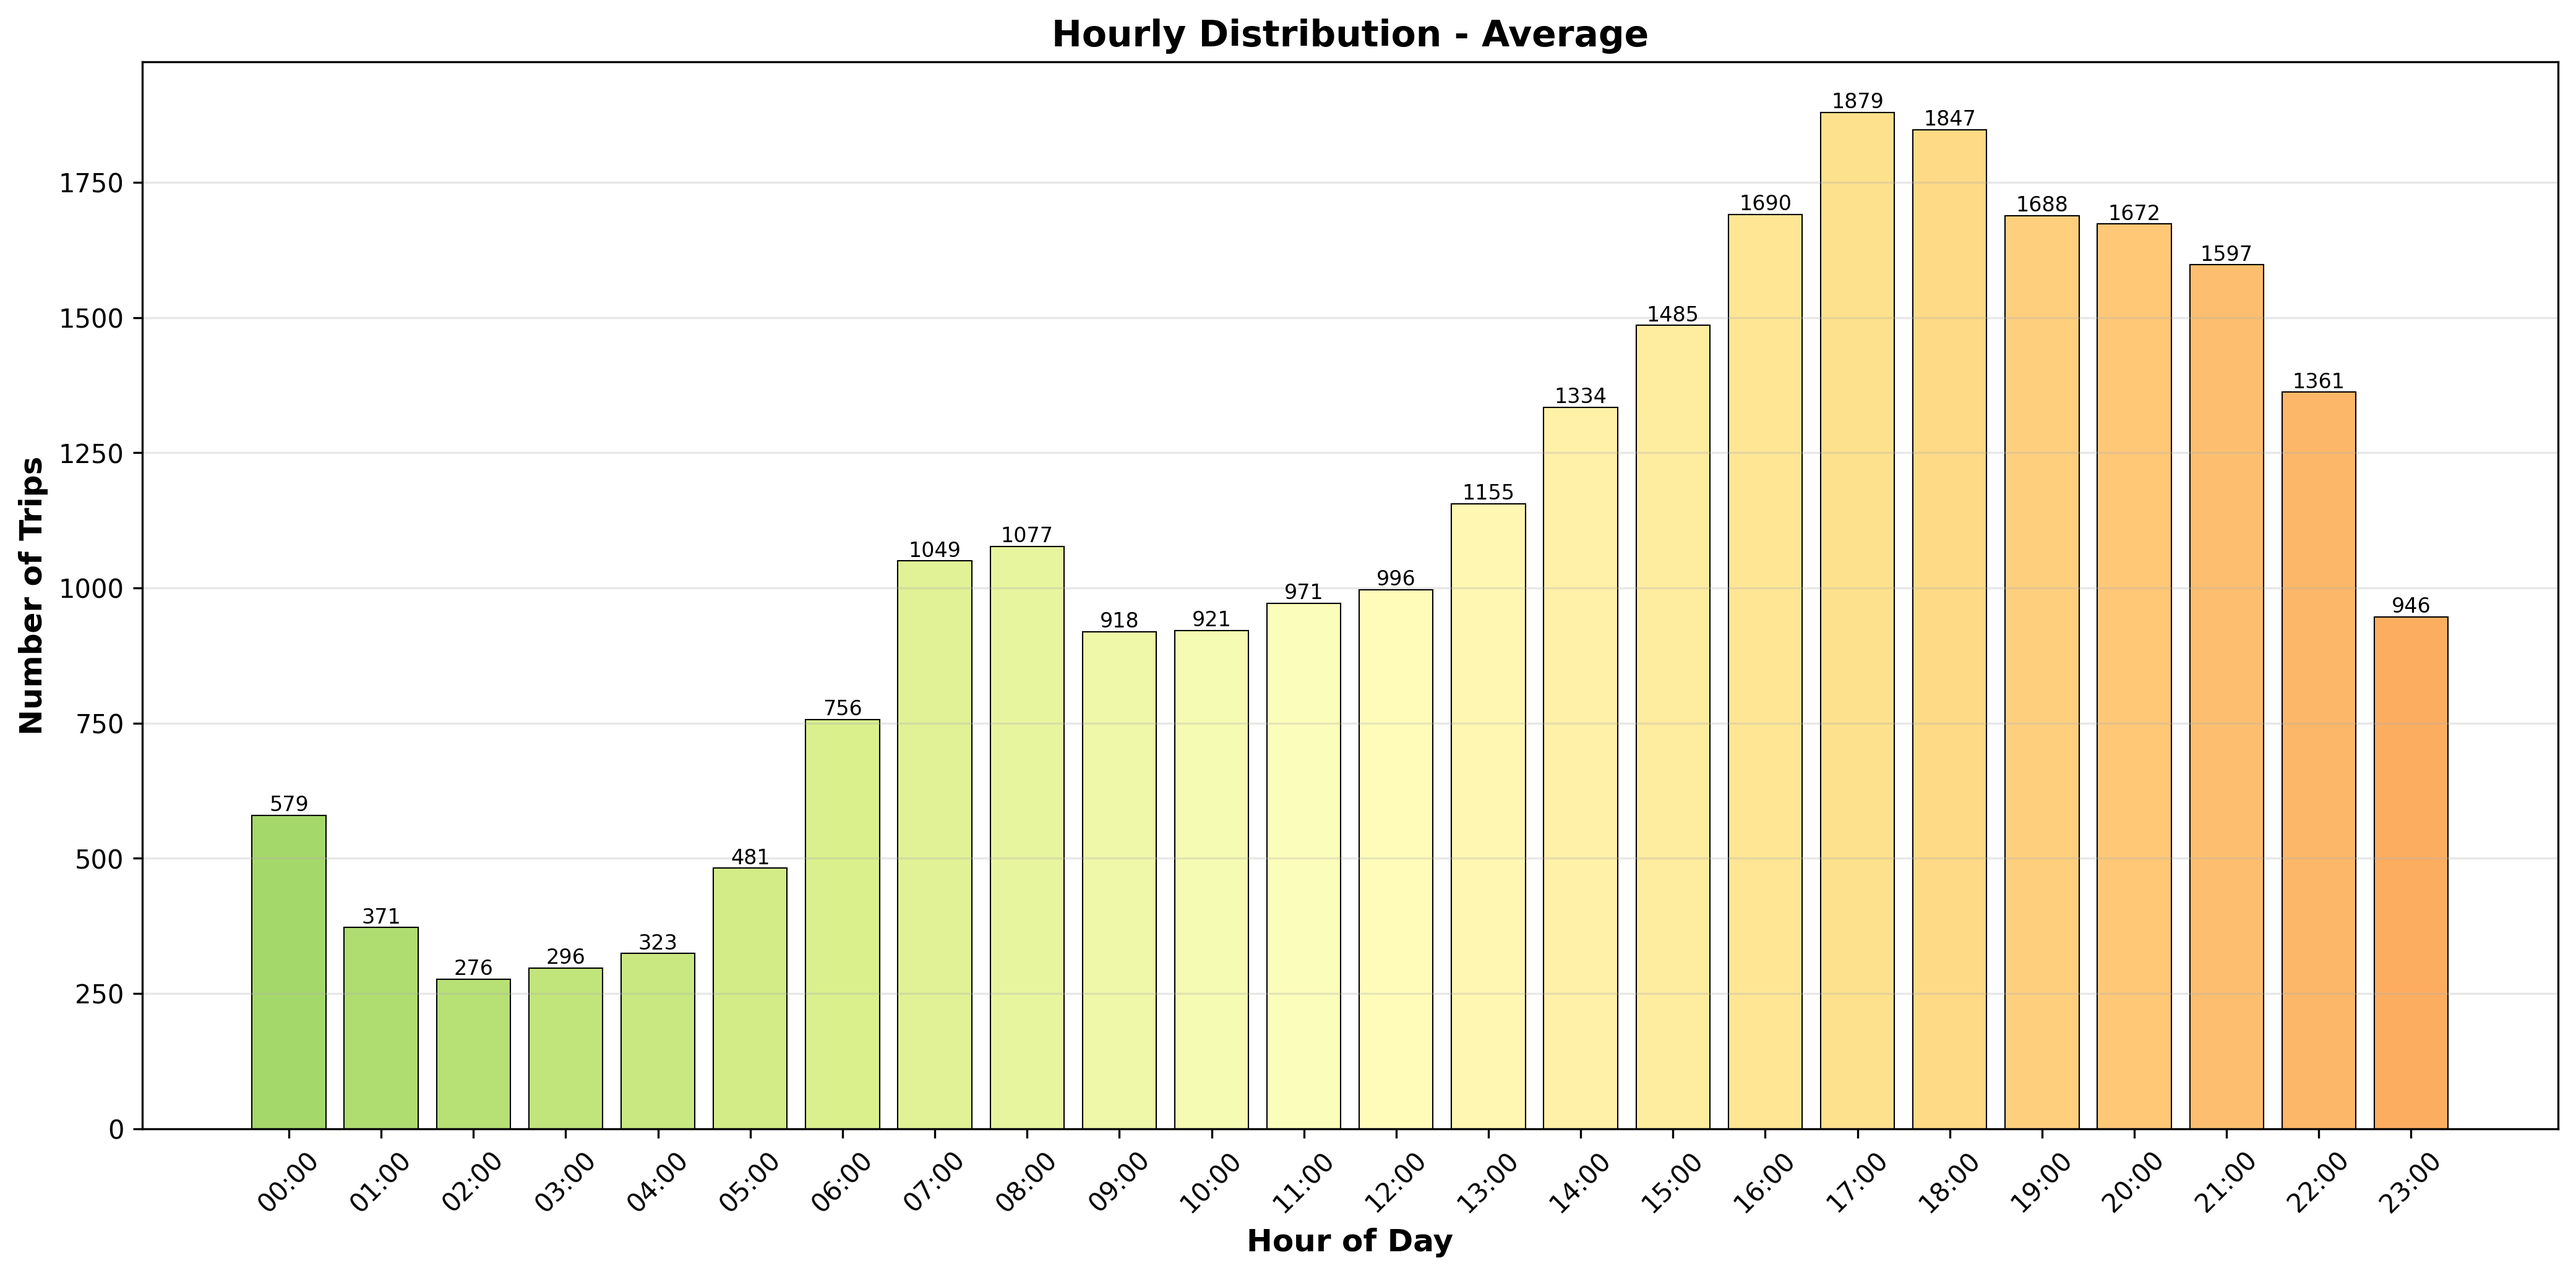
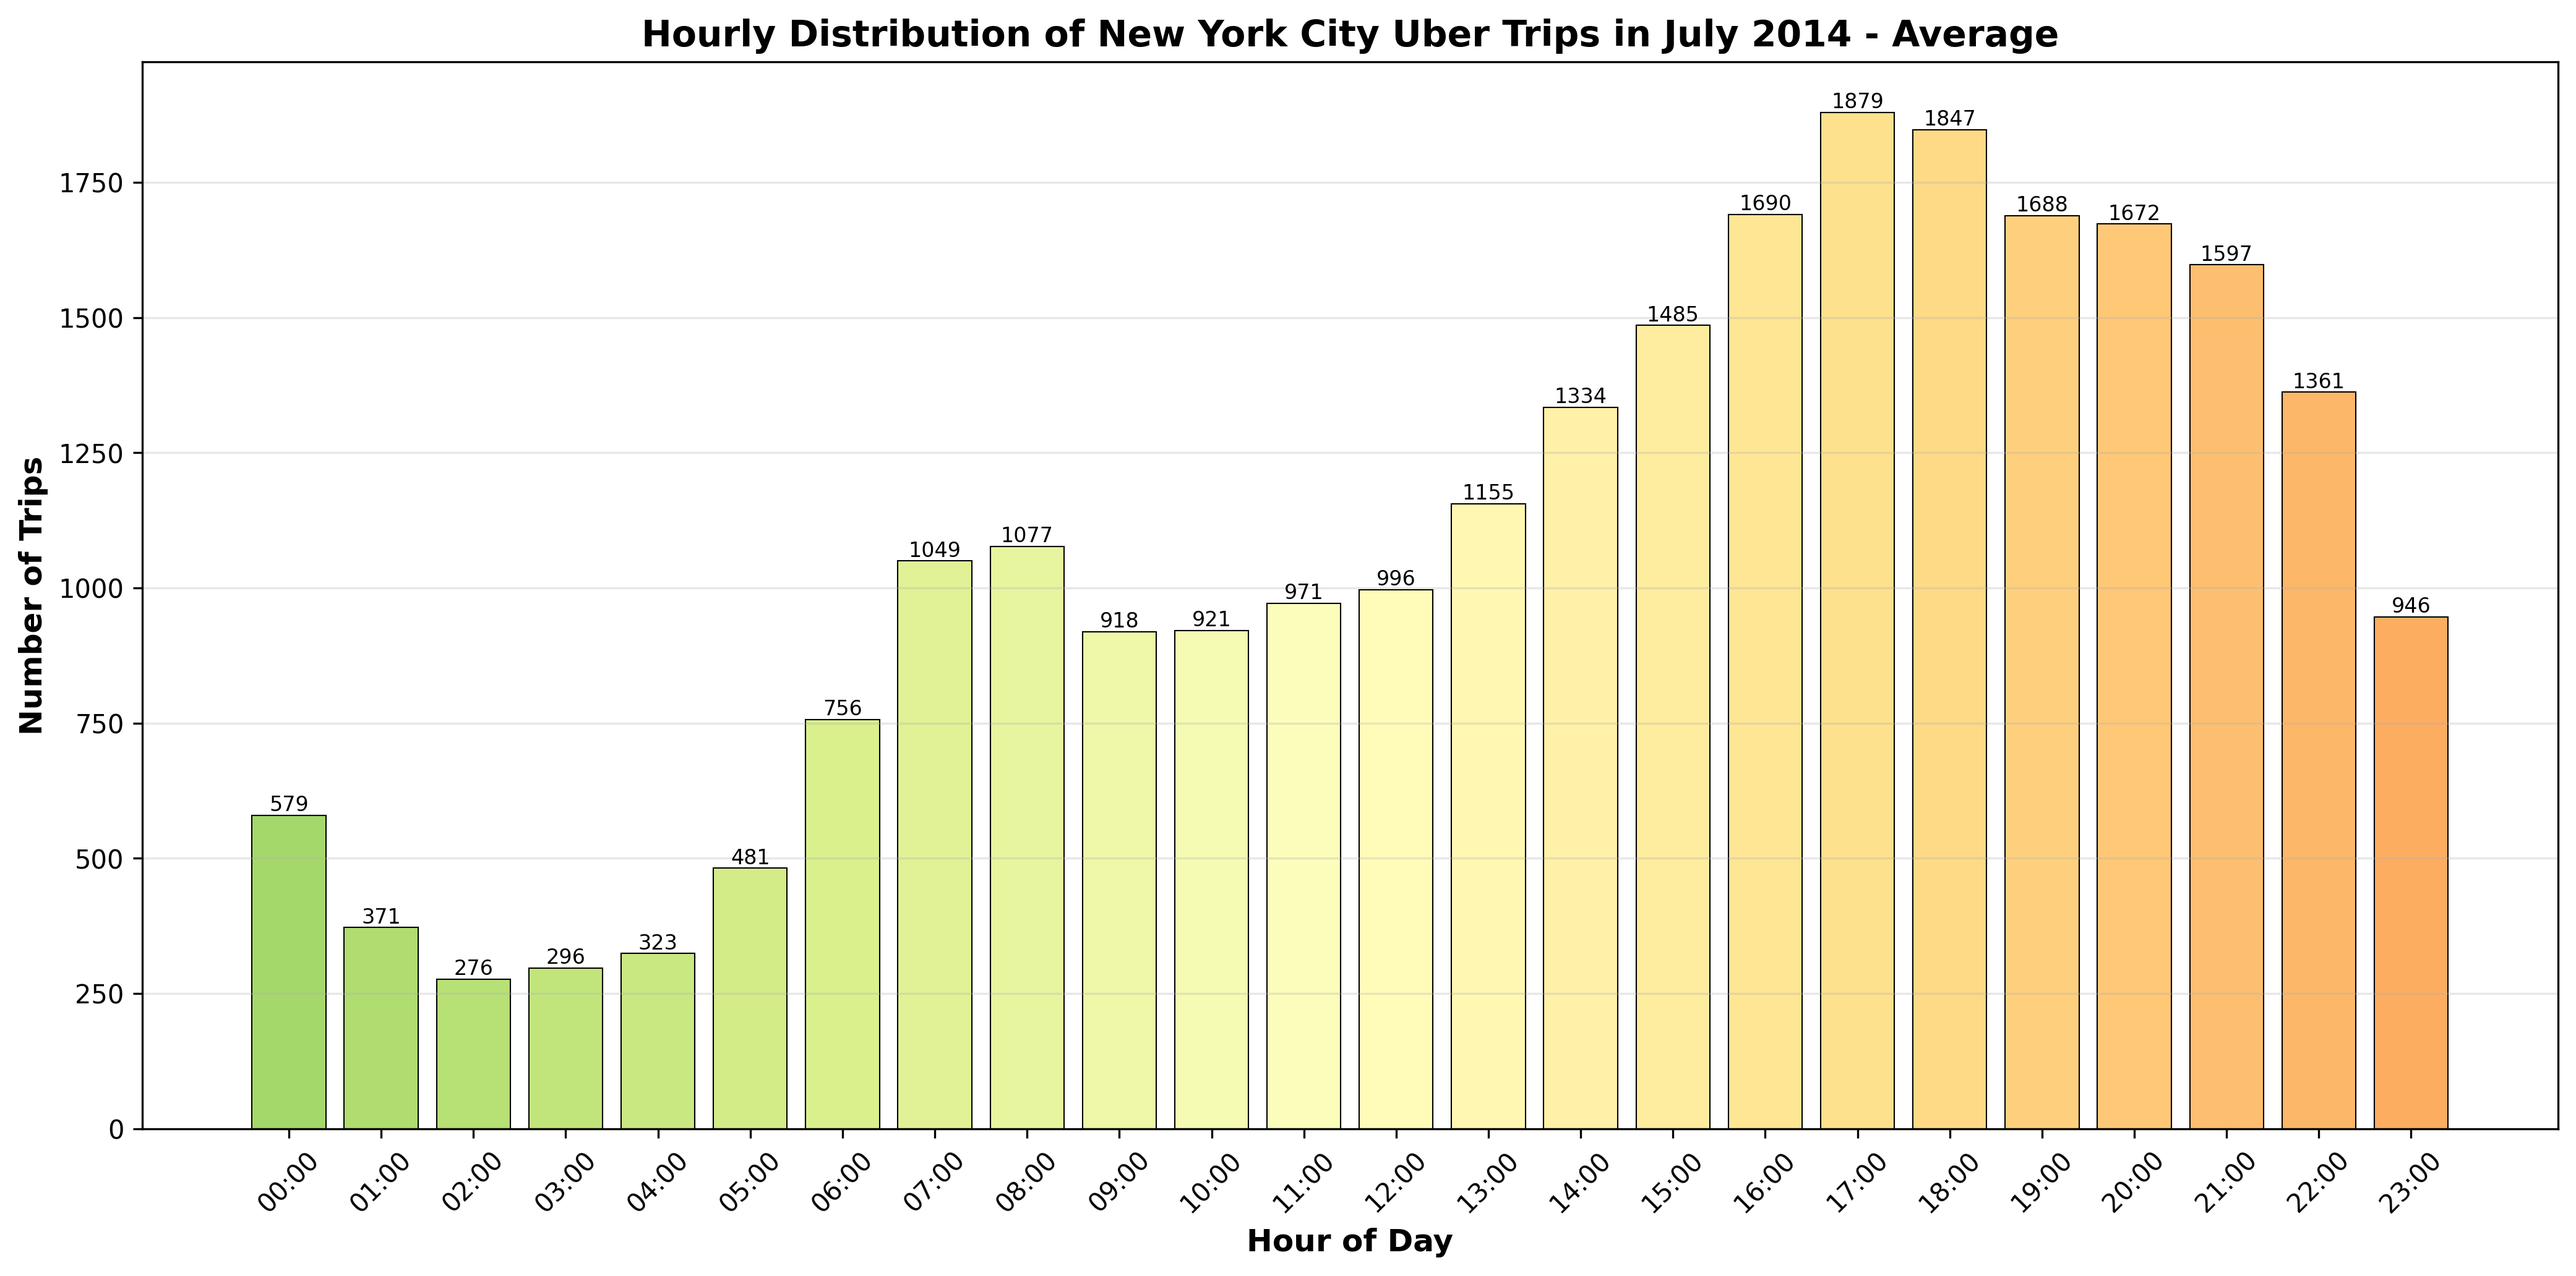
output updated

Changed region(s): [[0.2498, 0.0, 0.8117, 0.062]]

diff --git a/visualize.py b/visualize.py
@@ -34,7 +34,7 @@ def generate_visuals(json_file, output_dir, file_prefix):
     ax.set_xlabel('Hour of Day', fontsize=12, fontweight='bold')
     ax.set_ylabel('Number of Trips', fontsize=12, fontweight='bold')
     ax.set_title(
-        f'Hourly Distribution - {file_prefix.replace("_", " ").title()}', fontsize=14, fontweight='bold')
+        f'Hourly Distribution of New York City Uber Trips in July 2014 - {file_prefix.replace("_", " ").title()}', fontsize=14, fontweight='bold')
     ax.set_xticks(range(len(hours)))
     ax.set_xticklabels(hours, rotation=45)
     ax.grid(True, axis='y', alpha=0.3)
@@ -70,9 +70,9 @@ Average: {avg:.2f}
 if __name__ == '__main__':
     base_dir = Path(__file__).parent
 
-    json_py = base_dir / 'output' / 'hourly_trips.json'
+    json_py = base_dir / 'output' / 'total_trips.json'
     out_py = base_dir / 'output'
-    generate_visuals(json_py, out_py, "hourly")
+    generate_visuals(json_py, out_py, "total")
 
     json_wsl = base_dir / 'results' / 'output_daily_avg.json'
     out_wsl = base_dir / 'results'
